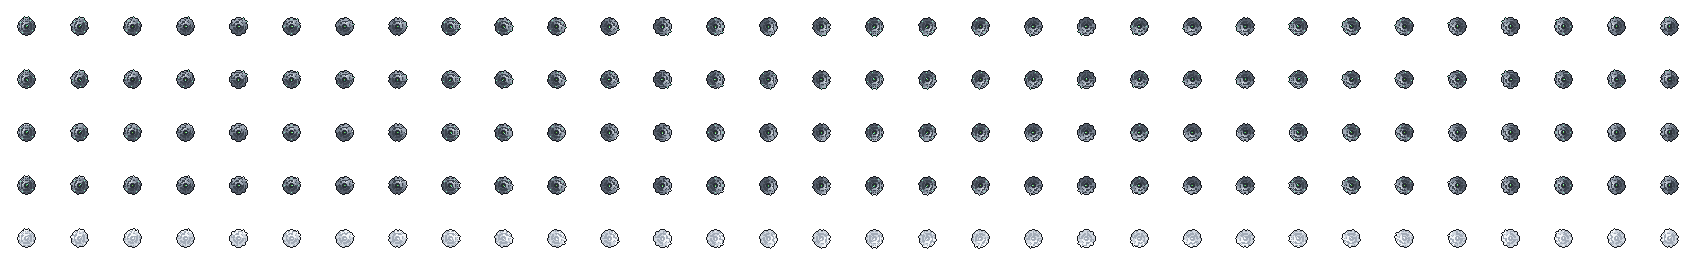
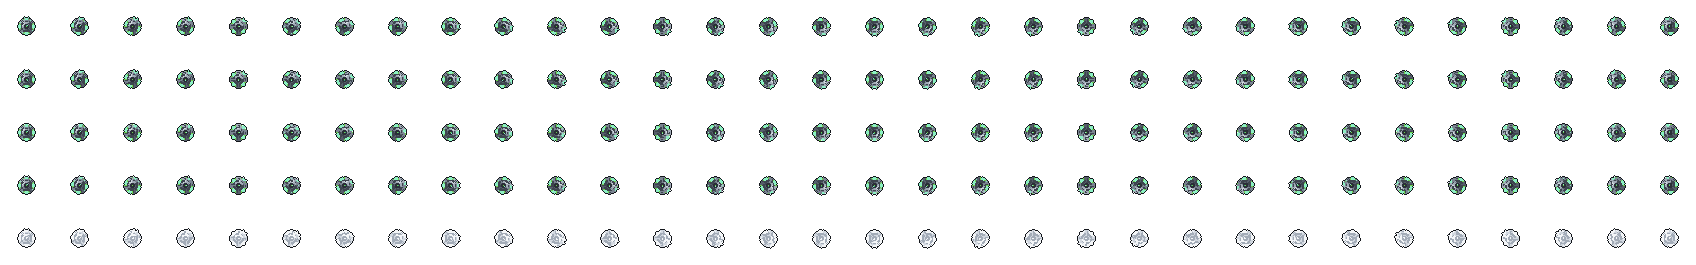
Defence drone: lit PD-green hoop arcs that read on black space and on the hull; v3 shot
Claude-Session: https://claude.ai/code/session_013c7XcjREWKUsXeesNxoYEV

diff --git a/art/_src/drone_mod.py b/art/_src/drone_mod.py
@@ -262,6 +262,23 @@ def radar_ring(c, tier):
             if tier == 2 and r0 + 1.0 < d < r0 + 1.7: s.put(x, y, 'E')          # Mk II: a doubled hoop, a dark groove between the two
     for sd in (-1, 1):                                                          # the two rear struts
         for k in range(3, 6): s.put(cx + sd * k, cy + k, 'S' if sd < 0 else 'W')
+    # the PD accent: lit arcs of the hoop in the family colour at the compass points (two at Mk I, four at Mk II), the pair across from each other
+    # alternating in idle so the ring seems to run; bright enough to read on black space and on a grey hull
+    arcs = (0, 180) if tier == 1 else (0, 90, 180, 270)
+    for ai, centre in enumerate(arcs):
+        on = c.st.powered and (c.st.dstate != 'idle' or (c.st.i + ai) % 2 == 0 or tier == 2)
+        for y in range(cy - 9, cy + 10):
+            for x in range(cx - 9, cx + 10):
+                dx, dy = x - cx, y - cy
+                d = (dx * dx + dy * dy) ** 0.5
+                if not (r0 <= d <= r1): continue
+                a = math.degrees(math.atan2(dx, -dy)) % 360
+                da = min((a - centre) % 360, (centre - a) % 360)
+                if da <= 24:
+                    s.put(x, y, ('3' if da <= 16 else '2') if on else '1')
+        if on:
+            ax, ay = cx + (r0 + r1) / 2 * math.sin(math.radians(centre)), cy - (r0 + r1) / 2 * math.cos(math.radians(centre))
+            c.lightglow(ax, ay, 4.5, 0.6)
     n = 3 if tier == 1 else 4
     turn = (c.st.i * (60 if n == 3 else 45)) if c.st.dstate == 'idle' else 0
     for k in range(n):                                                          # the emitters on the hoop, in the family light
